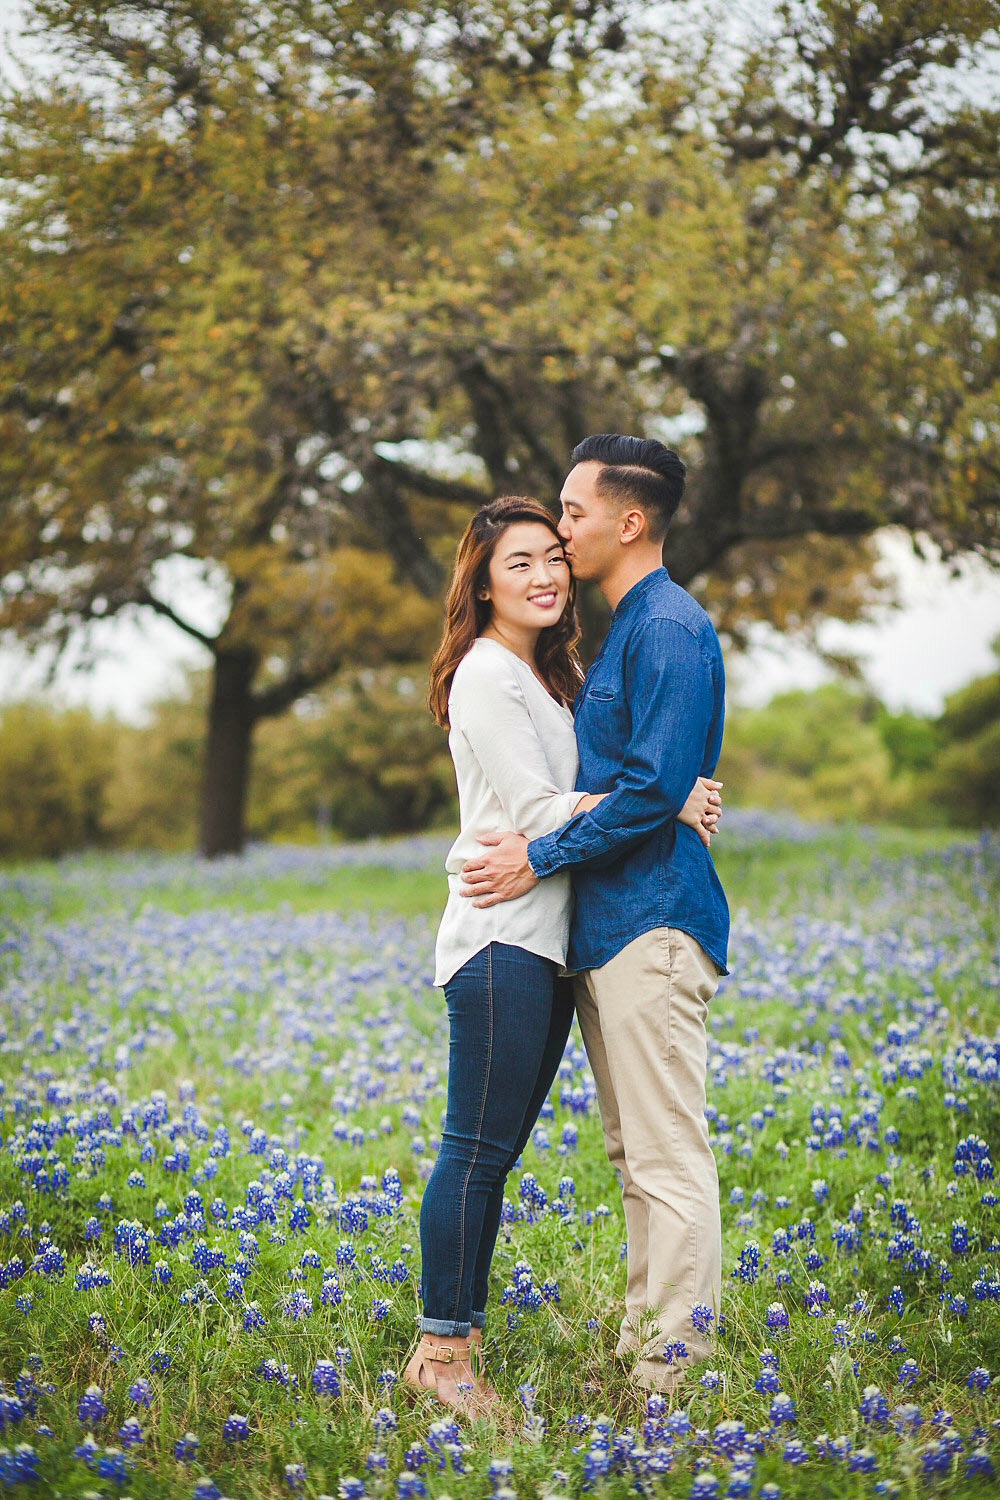
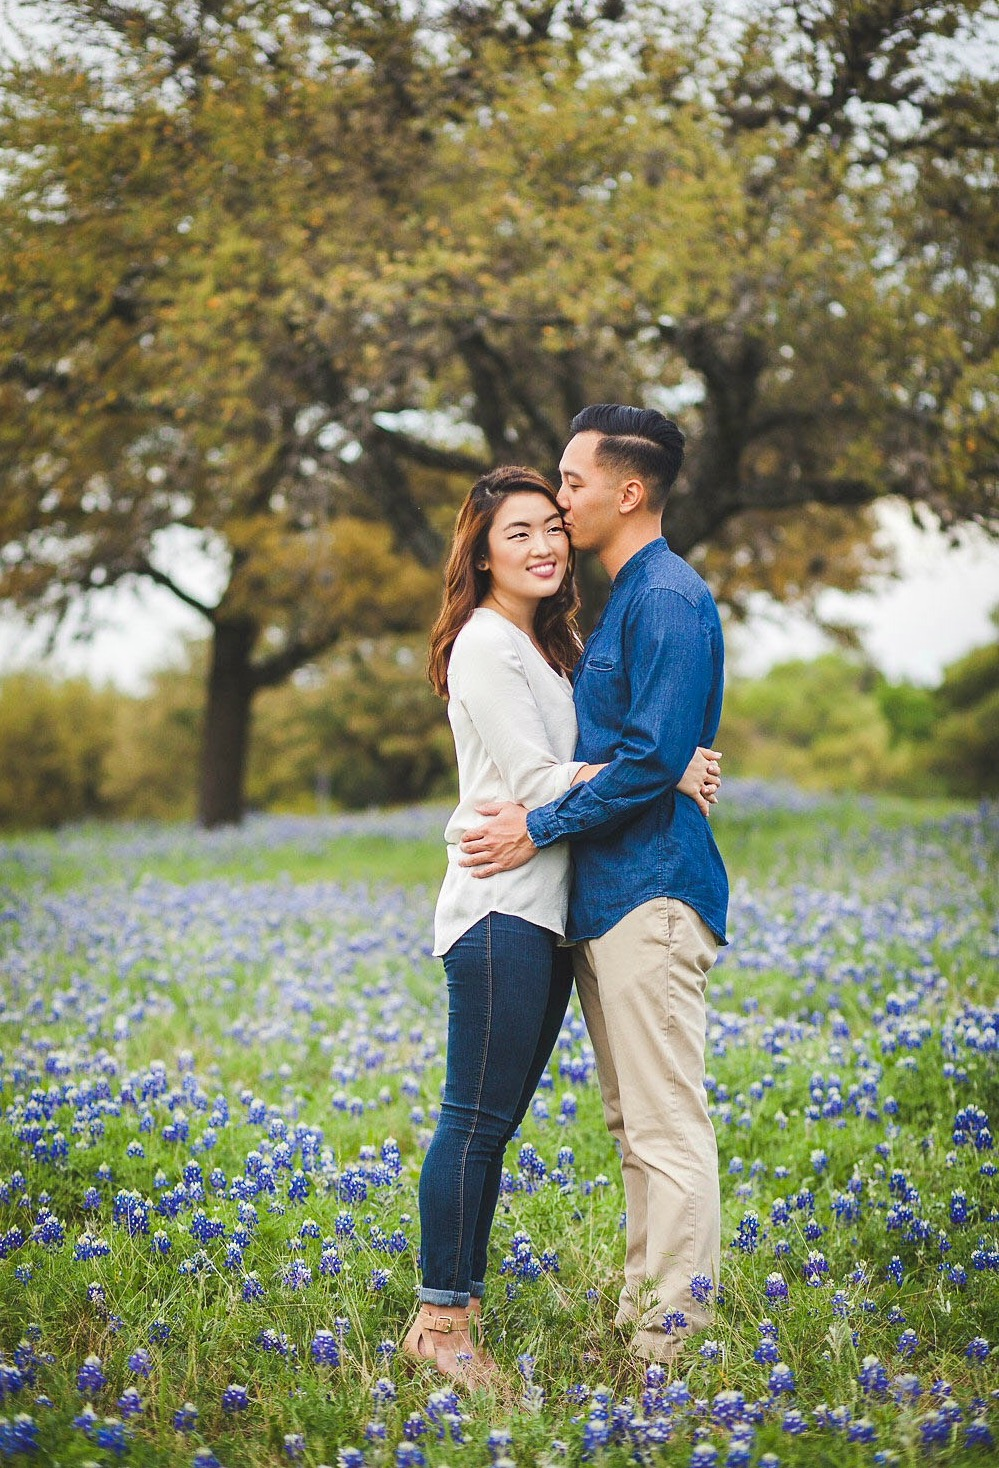
adjusted photos

diff --git a/src/app/photos/photos.component.html b/src/app/photos/photos.component.html
@@ -45,7 +45,7 @@
       <div class="photo">
             <img class="fade-in" src="../assets/images/shan-kenny-photo-11.jpg">
         <img class="fade-in" src="../assets/images/shan-kenny-photo-5.jpg">
-        <img class="fade-in" src="../assets/images/shan-kenny-photo-1.jpg">
+        <img class="fade-in" style="padding-top:9px;" src="../assets/images/shan-kenny-photo-1.jpg">
         <img class="fade-in" src="../assets/images/shan-kenny-photo-7.jpg">
         <img class="fade-in" src="../assets/images/shan-kenny-photo-9.jpg">
         <img class="fade-in" src="../assets/images/shan-kenny-photo-6.jpg">

diff --git a/src/app/home/home.component.html b/src/app/home/home.component.html
@@ -52,7 +52,7 @@
               <div class="modal-content">
                 <div class="modal-header">
                   <button type="button" class="close" data-dismiss="modal" aria-label="Close"><span aria-hidden="true">&times;</span></button>
-                  <h4 class="modal-title">Please RSVP By April 30th, 2019</h4>
+                  <h4 class="modal-title">Please RSVP By July 1st, 2019</h4>
                 </div>
                 <div class="modal-body">
                   <contact-list></contact-list>
